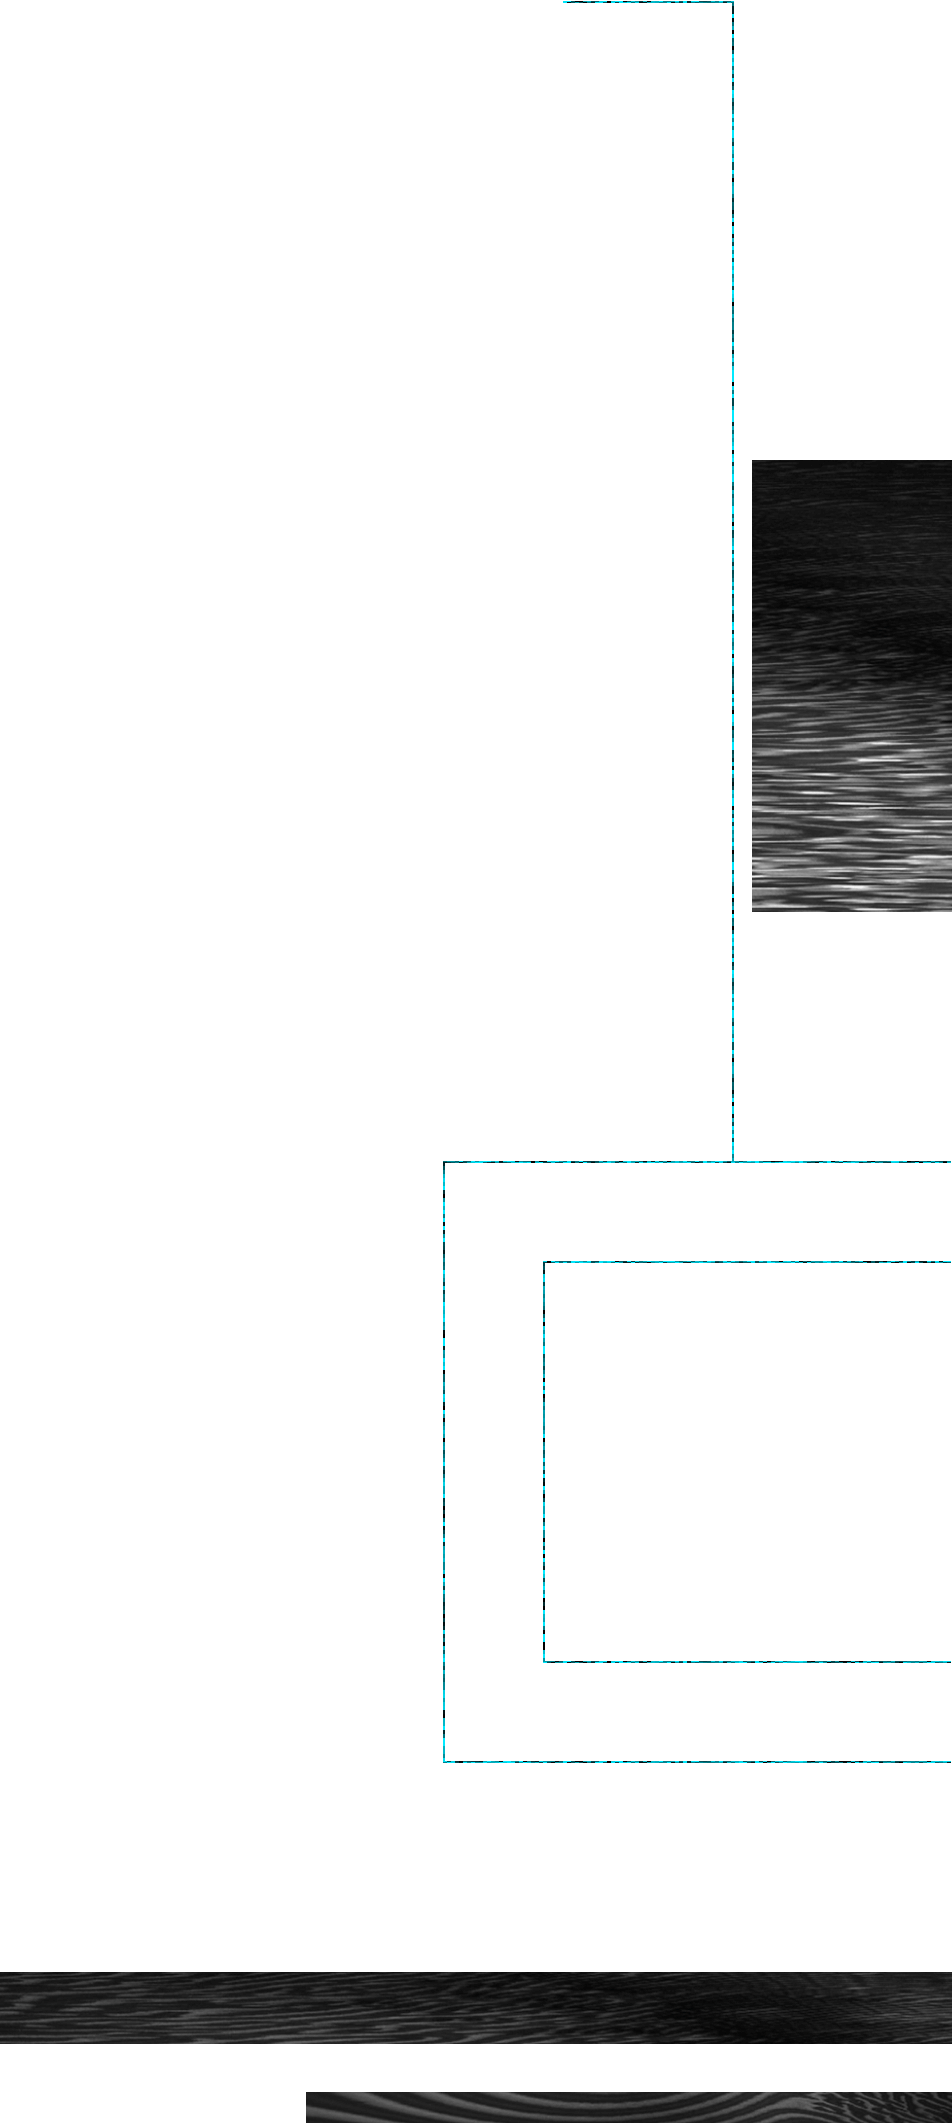
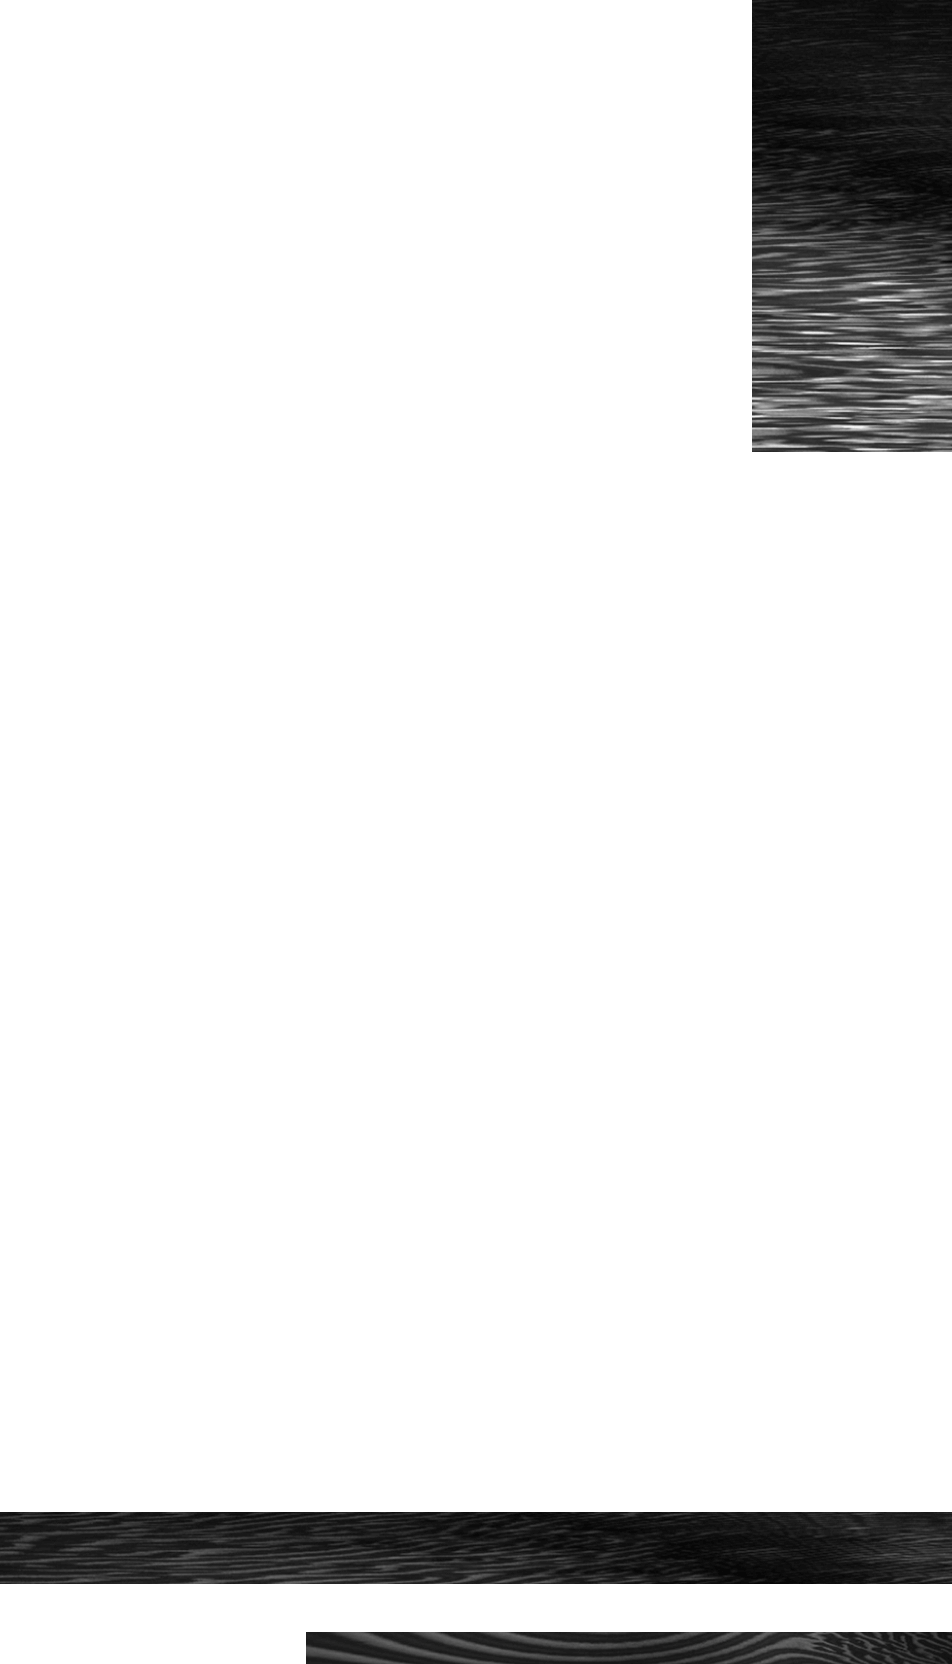
fix: minor changes

Changed region(s): [[0.7616, 0.0, 1.0, 0.4375], [0.0, 0.9062, 1.0, 1.0]]

diff --git a/src/components/pages/home/events/events.jsx b/src/components/pages/home/events/events.jsx
@@ -5,8 +5,10 @@ import SectionHeading from 'components/shared/section-heading';
 import SignUpButton from 'components/shared/sign-up-button';
 
 import ArrowIcon from './images/arrow.inline.svg';
-import bgLeftGlitch from './images/bg-left-glitch.jpg';
-import bgRightGlitch from './images/bg-right-glitch.jpg';
+import bgLeftBottomLine from './images/bg-left-bottom-line.jpg';
+import bgLeftLine from './images/bg-left-line.png';
+import bgLeft from './images/bg-left.jpg';
+import bgRight from './images/bg-right.jpg';
 
 const title = 'Welcome to Hacksquad 2022!';
 
@@ -103,8 +105,8 @@ const Events = () => {
   const items = useMemo(() => (isShownMore ? events : events.slice(0, 7)), [isShownMore]);
 
   return (
-    <section className="events safe-paddings relative overflow-hidden py-26" id="events">
-      <div className="container">
+    <section className="safe-paddings relative py-26" id="events">
+      <div className="container relative">
         <SectionHeading className="text-center">{title}</SectionHeading>
         <p className="mx-auto mt-10 max-w-[968px] text-center text-lg">
           <span className="relative before:absolute before:-right-1.5 before:-z-10 before:h-[30px] before:w-[454px] before:bg-primary-1">
@@ -140,22 +142,34 @@ const Events = () => {
 
           {!isShownMore && (
             <button
-              className="mx-auto mt-10 flex flex-col items-center font-medium uppercase outline-none"
+              className="group mx-auto mt-10 flex flex-col items-center font-medium uppercase outline-none"
               type="button"
               onClick={() => setIsShownMore(true)}
             >
               Show more
-              <ArrowIcon className="h-2" aria-hidden />
+              <ArrowIcon
+                className="h-2 transition-[transform] duration-200 group-hover:translate-y-1.5"
+                aria-hidden
+              />
             </button>
           )}
         </div>
 
         <SignUpButton className="mx-auto mt-20" />
+
+        <Image
+          className="absolute left-[-220px] bottom-[-642px]"
+          src={bgLeftLine}
+          width={253}
+          height={1569}
+          alt=""
+          aria-hidden
+        />
       </div>
 
       <Image
         className="absolute left-0 top-2 -z-10"
-        src={bgLeftGlitch}
+        src={bgLeft}
         width={434}
         height={636}
         alt=""
@@ -163,10 +177,19 @@ const Events = () => {
       />
 
       <Image
+        className="absolute left-0 bottom-0 -z-10"
+        src={bgLeftBottomLine}
+        width={534}
+        height={20}
+        alt=""
+        aria-hidden
+      />
+
+      <Image
         className="absolute right-0 bottom-28 -z-10"
-        src={bgRightGlitch}
-        width={157}
-        height={525}
+        src={bgRight}
+        width={175}
+        height={1082}
         alt=""
         aria-hidden
       />

diff --git a/src/components/pages/home/swag/swag.jsx b/src/components/pages/home/swag/swag.jsx
@@ -3,6 +3,9 @@ import React from 'react';
 
 import SectionHeading from 'components/shared/section-heading';
 
+import bgBorder from './images/bg-border.png';
+import bgGlitchLeft from './images/bg-glitch-left.jpg';
+import bgGlitchRight from './images/bg-glitch-right.jpg';
 import bg from './images/bg.jpg';
 import mug from './images/mug.jpg';
 import socks from './images/socks.jpg';
@@ -13,7 +16,7 @@ const title = 'Swag list';
 const swagList = [tShirt, mug, sticker, socks, tShirt, mug, sticker, socks];
 
 const Swag = () => (
-  <section className="swag safe-paddings relative overflow-hidden py-26" id="swag">
+  <section className="safe-paddings relative overflow-hidden py-26" id="swag">
     <div className="container relative z-10">
       <SectionHeading className="text-center">{title}</SectionHeading>
       <p className="mx-auto mt-10 max-w-[716px] text-center text-lg">
@@ -23,7 +26,7 @@ const Swag = () => (
         </span>
       </p>
 
-      <ul className="grid-gap mt-20 grid grid-cols-4">
+      <ul className="grid-gap relative mt-20 grid grid-cols-4">
         {swagList.map((item, index) => (
           <li key={index}>
             <Image
@@ -36,15 +39,41 @@ const Swag = () => (
             />
           </li>
         ))}
+
+        <Image
+          className="absolute top-1/2 left-1/2 -z-10 min-w-[1532px] -translate-x-1/2 -translate-y-1/2"
+          src={bgBorder}
+          alt=""
+          width={1532}
+          height={876}
+          layout="responsive"
+          aria-hidden
+        />
       </ul>
     </div>
 
     <Image
-      className="absolute top-0 left-1/2 min-w-[1920px] -translate-x-1/2"
+      className="absolute top-0 left-1/2 -z-10 min-w-[1920px] -translate-x-1/2"
       src={bg}
       alt=""
       width={1920}
       height={340}
+      aria-hidden
+    />
+    <Image
+      className="absolute top-[46.6%] left-0 -z-10"
+      src={bgGlitchLeft}
+      alt=""
+      width={534}
+      height={17}
+      aria-hidden
+    />
+    <Image
+      className="absolute top-[20.6%] right-0 -z-10"
+      src={bgGlitchRight}
+      alt=""
+      width={534}
+      height={164}
       aria-hidden
     />
   </section>

diff --git a/src/components/pages/home/question-and-answer/question-and-answer.jsx b/src/components/pages/home/question-and-answer/question-and-answer.jsx
@@ -7,6 +7,7 @@ import SignUpButton from 'components/shared/sign-up-button';
 import bgLeftGlitch from './images/bg-left-glitch.png';
 import bgLeft from './images/bg-left.jpg';
 import bgRightGlitch from './images/bg-right-glitch.png';
+import bgRightLine from './images/bg-right-line.png';
 import bgRight from './images/bg-right.jpg';
 
 const title = 'Q&A';
@@ -40,6 +41,15 @@ const QuestionAndAnswer = () => (
       </ul>
 
       <SignUpButton className="mx-auto mt-14" />
+
+      <Image
+        className="absolute top-[-394px] right-[-224px]"
+        src={bgRightLine}
+        alt=""
+        width={253}
+        height={880}
+        aria-hidden
+      />
     </div>
 
     <Image
@@ -67,11 +77,11 @@ const QuestionAndAnswer = () => (
       aria-hidden
     />
     <Image
-      className="absolute top-[-296px] right-0"
+      className="absolute top-[-66px] right-0"
       src={bgRightGlitch}
       alt=""
       width={476}
-      height={1061}
+      height={832}
       aria-hidden
     />
   </section>

diff --git a/src/components/pages/home/hero/hero.jsx b/src/components/pages/home/hero/hero.jsx
@@ -6,7 +6,7 @@ import SignUpButton from 'components/shared/sign-up-button';
 import bgLeftGlitch from './images/bg-left-glitch.png';
 import bgLogo from './images/bg-logo.png';
 import bgRightGlitch from './images/bg-right-glitch.png';
-import bg from './images/bg.jpg';
+import bg from './images/bg2.jpg';
 import Sponsors from './sponsors';
 
 const title = 'Hacksquad';
@@ -14,7 +14,7 @@ const description =
   'Complimentary event to win more swag, contribute code, meet community members, and participate in workshops.';
 
 const Hero = () => (
-  <section className="hero safe-paddings relative overflow-hidden pt-[244px] pb-26">
+  <section className="safe-paddings relative overflow-hidden pt-[244px] pb-26">
     <div className="container relative z-10 flex flex-col items-center">
       <div className="relative">
         <h1

diff --git a/src/components/shared/header/header.jsx b/src/components/shared/header/header.jsx
@@ -4,16 +4,16 @@ import React from 'react';
 
 import Burger from 'components/shared/burger';
 import Button from 'components/shared/button';
-import LINKS from 'constants/links';
 import MENUS from 'constants/menus';
 import Logo from 'images/logo.inline.svg';
 
 const Header = ({ isMobileMenuOpen, onBurgerClick }) => (
   <header className="safe-paddings absolute top-0 left-0 right-0 z-40 w-full">
     <div className="container flex items-center justify-between py-5 md:py-4 sm:py-3.5">
-      <Link {...LINKS.home}>
+      <div>
         <Logo className="h-[38px]" />
-      </Link>
+        <span className="sr-only">Hacksquad</span>
+      </div>
 
       <div className="flex items-center space-x-10 sm:hidden">
         <nav>

diff --git a/src/components/shared/footer/footer.jsx b/src/components/shared/footer/footer.jsx
@@ -2,16 +2,16 @@ import Link from 'next/link';
 import React from 'react';
 
 import Button from 'components/shared/button';
-import LINKS from 'constants/links';
 import MENUS from 'constants/menus';
 import Logo from 'images/logo.inline.svg';
 
 const Footer = () => (
   <footer className="safe-paddings">
     <div className="container flex items-center justify-between py-10">
-      <Link {...LINKS.home}>
+      <div>
         <Logo className="h-[38px]" />
-      </Link>
+        <span className="sr-only">Hacksquad</span>
+      </div>
 
       <div className="flex items-center space-x-10 sm:hidden">
         <nav>

diff --git a/src/components/shared/seo/seo.jsx b/src/components/shared/seo/seo.jsx
@@ -2,7 +2,7 @@ import Head from 'next/head';
 
 const Seo = () => (
   <Head>
-    <title>Create Next App</title>
+    <title>Hacksquad 2022 - Join Hacktoberfest with your squad</title>
     <link rel="icon" href="/favicon.ico" />
   </Head>
 );

diff --git a/src/constants/links.js b/src/constants/links.js
@@ -1,8 +1,4 @@
 export default {
-  // Pages
-  home: {
-    href: '/',
-  },
   sponsors: {
     href: '#sponsors',
   },
